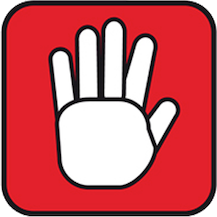
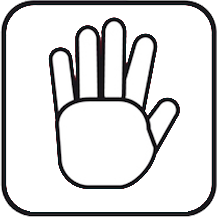
Changed pallete

diff --git a/style.css b/style.css
@@ -10,7 +10,7 @@ body{
     gap: 2em;
     margin: 0;
     padding: 0;
-    background-color: #3C3744;
+    background-color: #E8E9EB;
 }
 
 header {
@@ -19,9 +19,13 @@ header {
     align-items: center;
     height: 10vh;
     width: 100%;
-    background-color: #4357AD;
+    background-color: #FFFBFE;
     font-size: 2rem;
-    color:aliceblue;
+    color:black;
+    font-weight: 790;
+    border-bottom: 2px solid #d1cdd0;
+    text-shadow: 0 0 0.5rem #e6d8d8;
+
 }
 .squares{
     display: flex;
@@ -49,4 +53,15 @@ img:hover {
     border-radius: 30px;
     border-color: #ffc600;
     box-shadow: 0 0 1rem #ffc600;
+  }
+  #paper:hover{
+    background-color: #E3212C;
+  }
+
+  #rock:hover{
+    background-color: #19ABA0;
+  }
+
+  #scissors:hover{
+    background-color: #B3CC32;
   }
